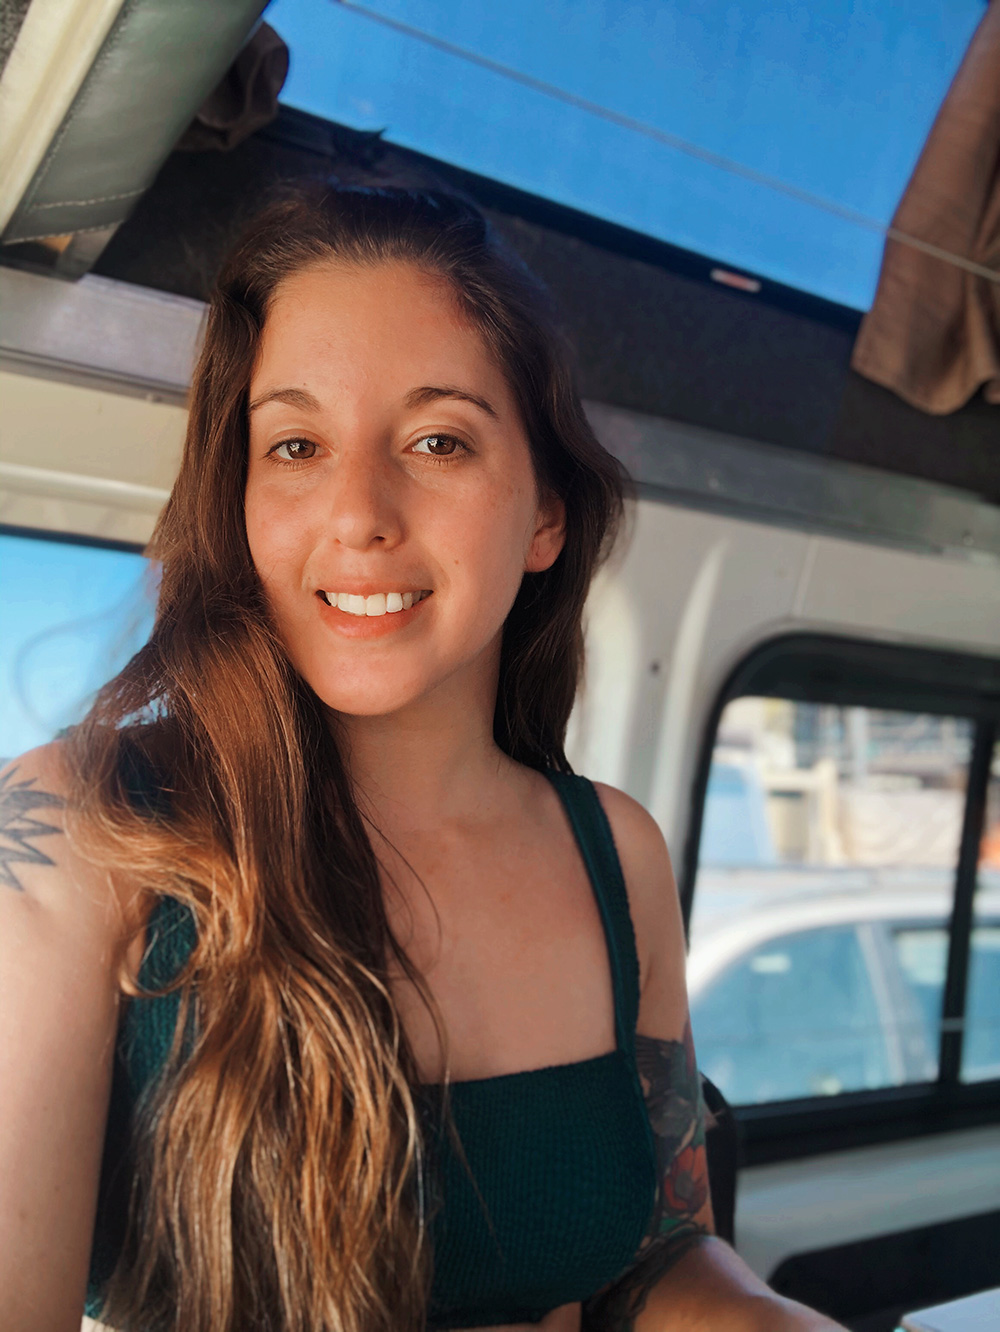
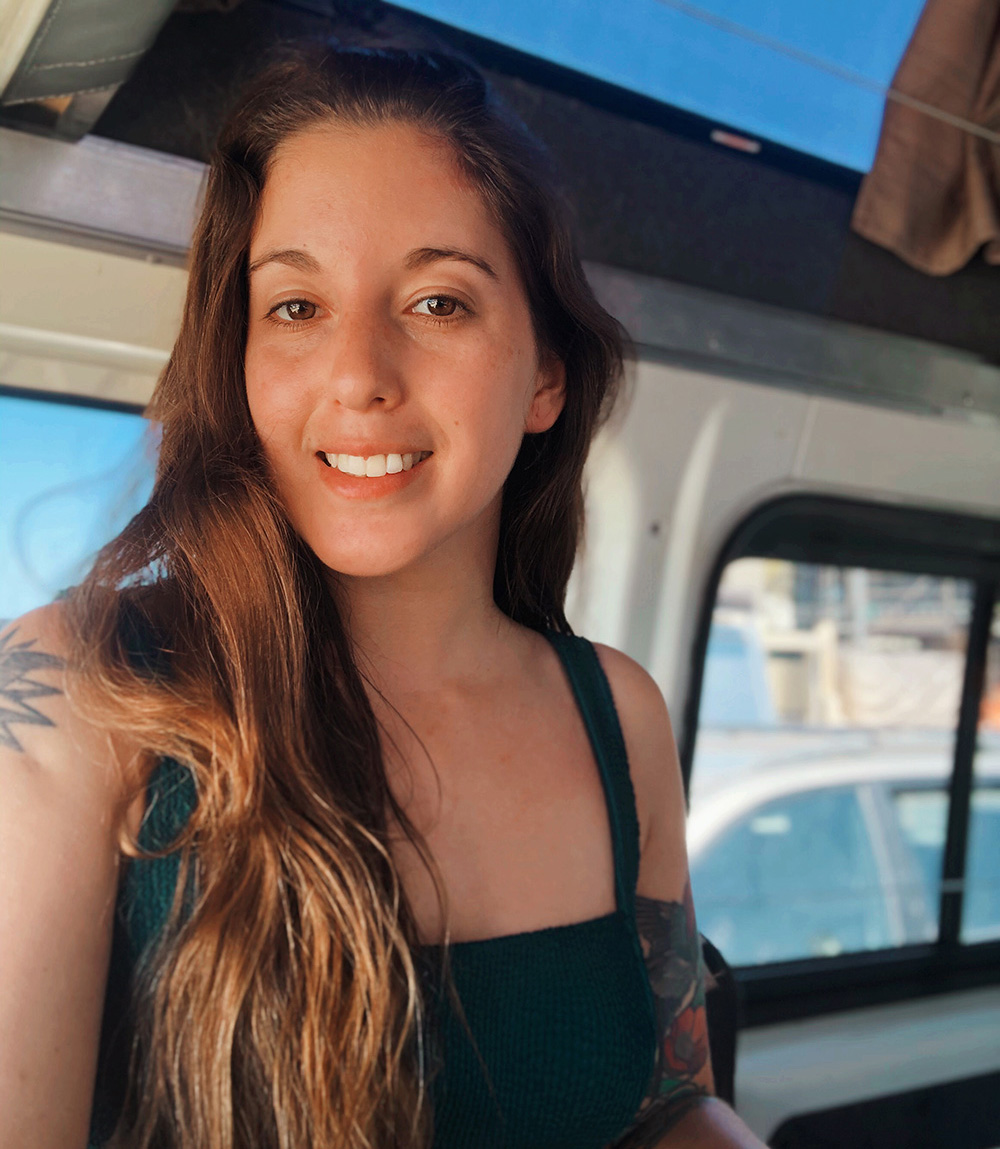
Cropping about image height and returning about section to container-fluid

diff --git a/index.html b/index.html
@@ -152,7 +152,7 @@
 
         <!--bio section-->
         <section>
-            <div class="container">
+            <div class="container-fluid">
                 <div class="row">
                     <div class="col-md-5">
                         <img src="assets/images/selfie.jpg" alt="Photo of myself" width = 100%/>
